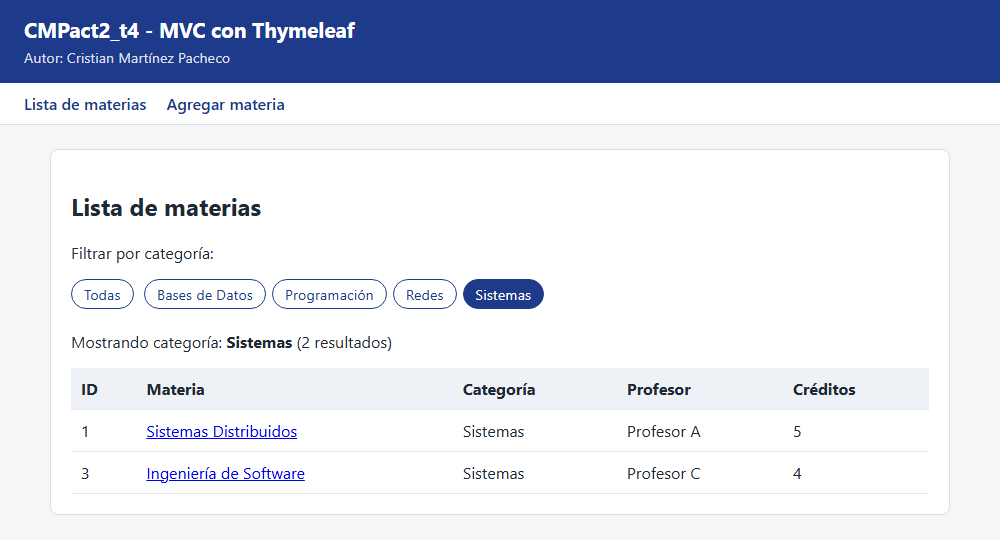
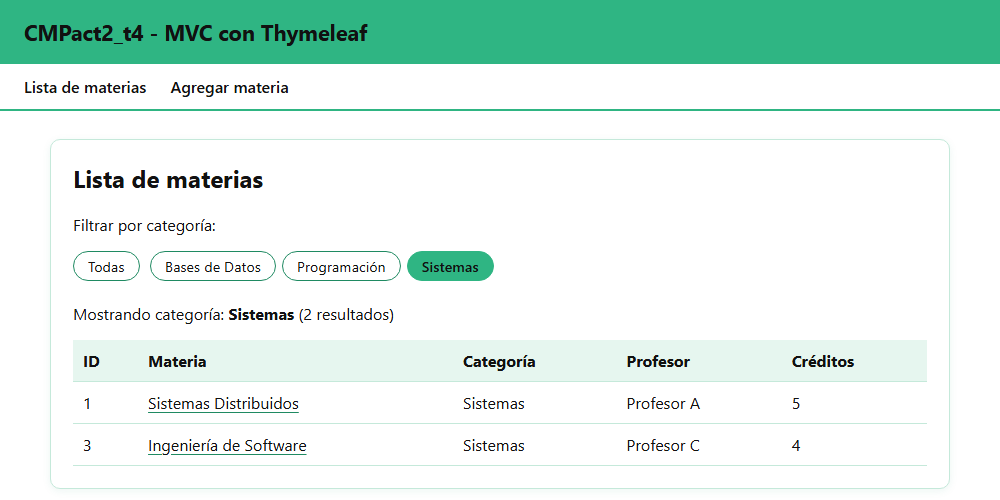
Tema verde jade, quitar autor y pie de pagina; capturas actualizadas

diff --git a/src/main/resources/templates/fragments.html b/src/main/resources/templates/fragments.html
@@ -5,43 +5,58 @@
     <meta name="viewport" content="width=device-width, initial-scale=1">
     <title th:text="${titulo}">Título</title>
     <style>
-        body { font-family: system-ui, sans-serif; margin: 0; background: #f4f6f8; color: #1f2933; }
-        header { background: #1e3a8a; color: #fff; padding: 16px 24px; }
-        header h1 { margin: 0; font-size: 1.3rem; }
-        header p { margin: 4px 0 0; opacity: .85; font-size: .9rem; }
-        nav { background: #fff; padding: 10px 24px; border-bottom: 1px solid #d9dee5; }
-        nav a { margin-right: 16px; color: #1e3a8a; text-decoration: none; font-weight: 600; }
-        main { max-width: 900px; margin: 24px auto; padding: 0 16px; }
-        .card { background: #fff; border: 1px solid #d9dee5; border-radius: 8px; padding: 20px; }
+        :root {
+            --jade: #2fb583;          /* verde jade medio */
+            --jade-oscuro: #1f8a62;   /* bordes y acentos */
+            --jade-claro: #e6f6ef;    /* fondos suaves */
+            --jade-borde: #c5e9da;
+            --texto: #111111;
+            --texto-suave: #3d4a44;
+            --fondo: #ffffff;
+        }
+        body { font-family: system-ui, sans-serif; margin: 0; background: var(--fondo); color: var(--texto); }
+        header { background: var(--jade); color: var(--texto); padding: 18px 24px; }
+        header h1 { margin: 0; font-size: 1.35rem; }
+        nav { background: var(--fondo); padding: 12px 24px; border-bottom: 2px solid var(--jade); }
+        nav a { margin-right: 20px; color: var(--texto); text-decoration: none; font-weight: 600;
+                padding-bottom: 2px; border-bottom: 2px solid transparent; }
+        nav a:hover { border-bottom-color: var(--jade-oscuro); }
+        main { max-width: 900px; margin: 28px auto; padding: 0 16px; }
+        .card { background: var(--fondo); border: 1px solid var(--jade-borde); border-radius: 10px; padding: 22px;
+                box-shadow: 0 2px 8px rgba(31, 138, 98, .08); }
+        h2 { margin-top: 0; }
+        a { color: var(--texto); text-decoration-color: var(--jade-oscuro); text-underline-offset: 3px; }
+        a:hover { text-decoration-thickness: 2px; }
         table { width: 100%; border-collapse: collapse; }
-        th, td { text-align: left; padding: 10px; border-bottom: 1px solid #e5e9ef; }
-        th { background: #eef2f7; }
-        .chip { display: inline-block; padding: 4px 12px; margin: 0 6px 6px 0; border-radius: 999px;
-                border: 1px solid #1e3a8a; color: #1e3a8a; text-decoration: none; font-size: .9rem; }
-        .chip.activo { background: #1e3a8a; color: #fff; }
+        th, td { text-align: left; padding: 10px; border-bottom: 1px solid var(--jade-borde); }
+        th { background: var(--jade-claro); }
+        tbody tr:hover { background: #f5fbf8; }
+        .chip { display: inline-block; padding: 4px 14px; margin: 0 6px 6px 0; border-radius: 999px;
+                border: 1px solid var(--jade-oscuro); color: var(--texto); text-decoration: none; font-size: .9rem; }
+        .chip:hover { background: var(--jade-claro); }
+        .chip.activo { background: var(--jade); border-color: var(--jade); font-weight: 600; }
         label { display: block; margin: 12px 0 4px; font-weight: 600; }
-        input, select { width: 100%; padding: 8px; border: 1px solid #c3cad4; border-radius: 6px; box-sizing: border-box; }
-        button { margin-top: 16px; padding: 10px 18px; background: #1e3a8a; color: #fff; border: 0; border-radius: 6px; cursor: pointer; }
-        .ok { color: #166534; font-weight: 600; }
-        .error { color: #b91c1c; font-weight: 600; }
-        footer { text-align: center; color: #6b7280; font-size: .85rem; margin: 32px 0; }
+        input, select { width: 100%; padding: 8px; border: 1px solid #b8c4be; border-radius: 6px; box-sizing: border-box; }
+        input:focus { outline: 2px solid var(--jade); border-color: var(--jade); }
+        button { margin-top: 16px; padding: 10px 18px; background: var(--jade); color: var(--texto); font-weight: 600;
+                 border: 0; border-radius: 6px; cursor: pointer; }
+        button:hover { background: var(--jade-oscuro); }
+        .ok { font-weight: 600; padding: 10px 14px; background: var(--jade-claro); border-left: 4px solid var(--jade); }
+        .error { font-weight: 600; padding: 10px 14px; background: #fdecec; border-left: 4px solid #d64545; }
     </style>
 </head>
 <body>
 
 <div th:fragment="encabezado">
     <header>
-        <!-- Valores leídos con @Value desde application.properties -->
+        <!-- Valor leído con @Value desde application.properties -->
         <h1 th:text="${nombreProyecto}">Nombre del proyecto</h1>
-        <p>Autor: <span th:text="${autor}">Autor</span></p>
     </header>
     <nav>
         <a th:href="@{/materias}">Lista de materias</a>
         <a th:href="@{/materias/nueva}">Agregar materia</a>
     </nav>
 </div>
-
-<footer th:fragment="pie">Actividad 2 · Tema 4 · Spring Boot MVC + Thymeleaf</footer>
 
 </body>
 </html>

diff --git a/src/main/resources/templates/materias/detalle.html b/src/main/resources/templates/materias/detalle.html
@@ -21,6 +21,5 @@
         <p><a th:href="@{/materias}">← Volver a la lista</a></p>
     </div>
 </main>
-<footer th:replace="~{fragments :: pie}"></footer>
 </body>
 </html>

diff --git a/src/main/resources/templates/materias/lista.html b/src/main/resources/templates/materias/lista.html
@@ -40,6 +40,5 @@
         </table>
     </div>
 </main>
-<footer th:replace="~{fragments :: pie}"></footer>
 </body>
 </html>

diff --git a/src/main/resources/templates/materias/formulario.html b/src/main/resources/templates/materias/formulario.html
@@ -28,6 +28,5 @@
         </form>
     </div>
 </main>
-<footer th:replace="~{fragments :: pie}"></footer>
 </body>
 </html>

diff --git a/src/main/resources/templates/materias/resultado.html b/src/main/resources/templates/materias/resultado.html
@@ -20,6 +20,5 @@
         </p>
     </div>
 </main>
-<footer th:replace="~{fragments :: pie}"></footer>
 </body>
 </html>

diff --git a/src/main/java/com/example/cmpact2_t4/controller/MateriaViewController.java b/src/main/java/com/example/cmpact2_t4/controller/MateriaViewController.java
@@ -20,12 +20,9 @@ public class MateriaViewController {
 
     private final MateriaService materiaService;
 
-    // @Value: lee propiedades personalizadas de application.properties
+    // @Value: lee una propiedad personalizada de application.properties
     @Value("${app.nombre-proyecto}")
     private String nombreProyecto;
-
-    @Value("${app.autor}")
-    private String autor;
 
     public MateriaViewController(MateriaService materiaService) {
         this.materiaService = materiaService;
@@ -35,7 +32,6 @@ public class MateriaViewController {
     @ModelAttribute
     public void datosComunes(Model model) {
         model.addAttribute("nombreProyecto", nombreProyecto);
-        model.addAttribute("autor", autor);
     }
 
     // a) Lista con th:each + @RequestParam opcional para filtrar por categoría

diff --git a/README.md b/README.md
@@ -38,12 +38,12 @@ El servidor levanta en el puerto **8082** (la Actividad 1 usa el 8081). Abre htt
 | REST | POST | `/api/dto/materias` | Recibe un `MateriaDTO` en JSON con `@RequestBody` |
 | REST | GET | `/api/proyecto`, `/api/materias`, `/status` | Endpoints heredados de la Actividad 1 |
 
-`@Value` lee `app.nombre-proyecto` y `app.autor` de `application.properties`, y se muestran en el encabezado de todas las vistas.
+`@Value` lee la propiedad personalizada `app.nombre-proyecto` de `application.properties`, y se muestra como título en el encabezado de todas las vistas.
 
 ## Capturas de pantalla
 
 ### 1. Lista de materias con `th:each`
-`GET /materias`: el controlador pone la lista en el `Model` y la vista la recorre con `th:each`. El encabezado muestra los valores leídos con `@Value`.
+`GET /materias`: el controlador pone la lista en el `Model` y la vista la recorre con `th:each`. El título del encabezado es el valor leído con `@Value`.
 
 ![Lista con th:each](docs/capturas/01-lista-th-each.png)
 
